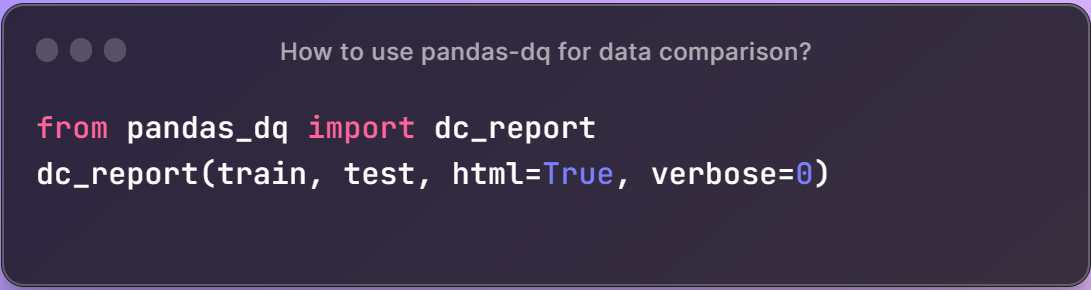
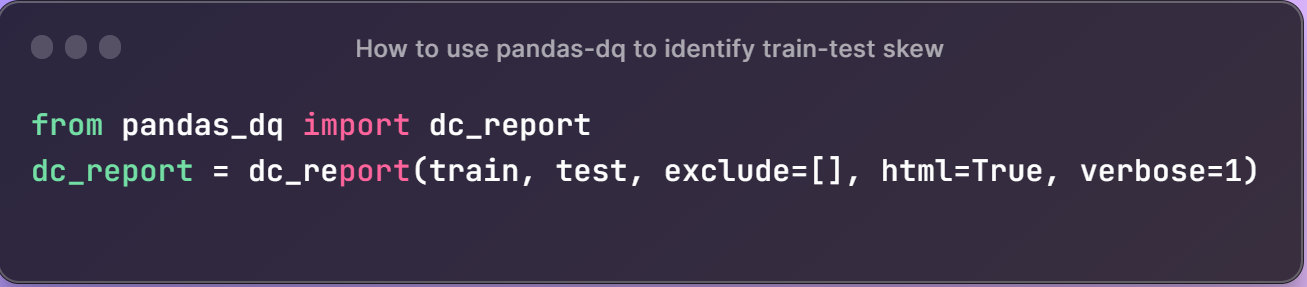
Adding data comparison tool

diff --git a/pandas_dq.py b/pandas_dq.py
@@ -43,6 +43,10 @@ import pandas as pd
 import numpy as np
 import copy
 import os
+pd.set_option('display.max_rows', 500)
+pd.set_option('display.max_columns', 500)
+pd.set_option('display.max_colwidth', 1000)
+pd.set_option('colheader_justify', 'center')
 # Define a function to print a data quality report and suggestions to clean data
 def dq_report(data, target=None, html=False, csv_engine="pandas", verbose=0):
     """
@@ -757,9 +761,6 @@ class Fix_DQ(BaseEstimator, TransformerMixin):
     
     # Define the fit method that calculates the upper bound for each numerical column
     def fit(self, X, y=None):
-        NEW_COLUMN_WIDTH = 500
-        # change the maximum column width in pandas
-        pd.set_option('display.max_colwidth', NEW_COLUMN_WIDTH)
         # Check if X is a pandas DataFrame
         
         if not isinstance(X, pd.DataFrame):
@@ -977,10 +978,6 @@ class DataSchemaChecker(BaseEstimator, TransformerMixin):
         Returns:
             None
         """
-        NEW_COLUMN_WIDTH = 500
-        # change the maximum column width in pandas
-        pd.set_option('display.max_colwidth', NEW_COLUMN_WIDTH)
-
         # Check if the number of columns in the dataframe matches the number of columns in the schema
         if len(df.columns) != len(self.schema):
             raise ValueError("The number of columns in the dataframe does not match the number of columns in the schema")
@@ -1069,10 +1066,12 @@ class DataSchemaChecker(BaseEstimator, TransformerMixin):
 ###################################################################################
 from scipy.stats import ks_2samp
 
-def dc_report(train, test, html=False, verbose=0):
+def dc_report(train, test, exclude=[], html=False, verbose=0):
     """
     This is a data comparison tool that accepts two pandas dataframes as input and 
-    returns a report highlighting any differences between them.
+    returns a report highlighting any differences between them. You can exclude
+    certain columns from this comparison (such as target column) by using
+    the "exclude" argument.
     
     Parameters
     ----------
@@ -1080,6 +1079,12 @@ def dc_report(train, test, html=False, verbose=0):
         The training dataframe to be compared.
     test : pd.DataFrame
         The testing dataframe to be compared.
+    html : False
+        You can set it to True to receive an HTML report as well as a file saved in your
+        working directory.
+    exclude : []
+        You can exclude an columns from comparison such as target column which is in train
+        but not in test so that the comparison can be 1:1 between the dataframes.
     verbose : 0 or 1
         If 1, Provides a longer report detailing all the columns mentioned in the report output below.
         If 0, Provides only a shorter report with Column Name, DQ Issue Train, DQ Issue Test and Distribution Difference.
@@ -1100,19 +1105,28 @@ def dc_report(train, test, html=False, verbose=0):
     Raises
     ------
     ValueError
-        If the input are not pandas dataframes or if the two dataframes do not have the same columns.
+        If the input are not pandas dataframes or if the two dataframes do not have the same columns
+        except for the exclude list of columns.
     """
-    NEW_COLUMN_WIDTH = 500
-    # change the maximum column width in pandas
-    pd.set_option('display.max_colwidth', NEW_COLUMN_WIDTH)
+    train = copy.deepcopy(train)
+    test = copy.deepcopy(test)
 
     # Check if the input are pandas dataframes
     if not isinstance(train, pd.DataFrame) or not isinstance(test, pd.DataFrame):
         print("The input must be pandas dataframes. Stopping!")
         return pd.DataFrame()
+
+    ### drop the columns from each 
+    if len(exclude) > 0:
+        for each in exclude:
+            if each in train.columns:
+                train = train.drop(each, axis=1)
+            if each in test.columns:
+                test = test.drop(each, axis=1)
+
     # Check if the two dataframes have the same columns
     if not train.columns.equals(test.columns):
-        print("The two dataframes dont have the same columns. Cannot be compared!")
+        print("The two dataframes dont have the same columns. Use exclude argument to exclude columns from comparison.")
         return pd.DataFrame()
     
     # Use your function dqr = dq_report(df) to generate a data quality report for each dataframe

diff --git a/README.md b/README.md
@@ -1,9 +1,12 @@
 # pandas_dq
-Analyze and clean your data in a single line of code with a Scikit-Learn compatible Transformer.
+`pandas-dq` is the ultimate data quality toolkit for pandas dataframes.
+
+![pandas_dq](./images/pandas_dq_logo.png)
 
 # Table of Contents
 <ul>
 <li><a href="#introduction">What is pandas_dq</a></li>
+<li><a href="#Components">What are its main components</a></li>
 <li><a href="#uses">How to use pandas_dq</a></li>
 <li><a href="#install">How to install pandas_dq</a></li>
 <li><a href="#usage">Usage</a></li>
@@ -15,11 +18,12 @@ Analyze and clean your data in a single line of code with a Scikit-Learn compati
 <p>
 
 ## Introduction
-`pandas_dq` is a new python library for data quality analysis and improvement. It is fast, efficient and scalable. 
+`pandas_dq` is a new python library for data quality analysis and improvement. It is fast, efficient and scalable. `pandas-dq` is:
+- A smart and simple way to clean and improve your pandas dataframes.
+- A powerful way to boost your data analysis with high-quality pandas dataframes.
+- A powerful and flexible library for data quality management in pandas.
 
-<b>Alert!</b>: If you are using `pandas version 2.0` ("the new pandas"), beware that weird errors are popping up in all kinds of libraries that use pandas underneath. Our `pandas_dq` library is no exception. So if you plan to use `pandas_dq` with `pandas version 2.0`, beware that you may see weird errors and we can't and won't fix them!
-
-### What is pandas_dq?
+### Data quality made easy with pandas and scikit-learn transformers
 The new `pandas_dq` library in Python is a great addition to the `pandas` ecosystem. It provides a set of tools for data quality assessment, which can be used to identify and address potential problems with data sets. This can help to improve the quality of data analysis and ensure that results are reliable.
 
 The `pandas_dq` library is still under development, but it already includes a number of useful features. These include:
@@ -32,20 +36,21 @@ The `pandas_dq` library is still under development, but it already includes a nu
 The `pandas_dq` library is a valuable tool for anyone who works with data. It can help you to improve the quality of your data analysis and ensure that your results are reliable.
 
 Here are some of the benefits of using the pandas_dq library:
-- It can help you to identify and address potential problems with data sets.
-- It can improve the quality of data analysis.
-- It can ensure that your results are reliable.
-- It is easy to use and can be integrated with other `pandas` tools.
+- It can help you to identify and address potential problems with data sets before modeling.
+- It can fix data quality issues and improve the quality of your data.
+- It is easy to use and can be integrated with other `scikit-learn` pipelines.
+
+<b>Alert!</b>: If you are using `pandas version 2.0` ("the new pandas"), beware that weird errors are popping up in all kinds of libraries that use pandas underneath. Our `pandas_dq` library is no exception. So if you plan to use `pandas_dq` with `pandas version 2.0`, beware that you may see weird errors and we can't and won't fix them!
+
+## Components
 
 `pandas_dq` has the following main modules:
 <li><b>dq_report</b>: The data quality report displays a data quality report either inline or in HTML after it analyzes your dataset for various issues, such as missing values, outliers, duplicates, correlations, etc. It also checks the relationship between the features and the target variable (if provided) to detect data leakage.</li>
-<li><b>dc_report</b>: The data comparison report displays a comparison report between train and test datasets either inline or in HTML after it analyzes both datasets for various issues, such as missing values, unique values, min and max, etc. It also checks provides a Statistical Test (KS test) to compare the distribitional differences of numeric features to detect data drift.</li>
+<li><b>dc_report</b>: The data comparison report displays a comparison report between train and test datasets either inline or in HTML after it analyzes both datasets for various issues, such as missing values, unique values, min and max, etc. It also checks provides a Statistical Test (KS test) to compare the distribitional differences of numeric features to detect data drift. You can exclude target column(s) from comparison between train and test.</li>
 <li><b>Fix_DQ</b>: This class is a scikit-learn compatible transformer that can detect and fix data quality issues in one line of code. It can remove ID columns, zero-variance columns, rare categories, infinite values, mixed data types, outliers, high cardinality features, highly correlated features, duplicate rows and columns, skewed distributions and imbalanced classes.</li>
 <li><b>DataSchemaChecker</b>: This class can check your dataset data types against a specific schema and report any mismatches or errors.</li>
 
 `pandas_dq` is designed to provide you the cleanest features with the fewest steps.
-
-![pandas_dq](./images/pandas_dq_logo.png)
 
 ## Uses
 `pandas_dq` has multiple important modules: `dq_report`, `Fix_DQ` and now `DataSchemaChecker`. <br>
@@ -81,7 +86,7 @@ Notice that for large datasets, this report generation may take time, hence we r
 <li>The function uses our function `dqr = dq_report(df)` to generate a data quality report for each dataframe and compares the results using the column names from the report.</li>
 <li>It also computes the Kolmogorov-Smirnov test statistic to measure the distribution difference for numeric columns with low cardinality.</li>
 <li>It also compares the Missing Values% and Unique Values% between the two dataframes and adds a comment in the "Distribution Difference" column if the two percentages are different.</li>
-<li>It returns a dataframe with the following column names: Column Name, Data Type Train, Data Type Test, Missing Values% Train, Missing Values% Test, Unique Values% Train, Unique Values% Test, Minimum Value Train, Minimum Value Test, Maximum Value Train, Maximum Value Test, DQ Issue Train, DQ Issue Test, Distribution Difference.</li>
+<li>You can exclude target column(s) from comparison between train and test.</li>
 - Notice that for large datasets, this report generation may take time. So make sure you take a sample of your train and test data before calling this report!
 </ol>
 
@@ -159,11 +164,12 @@ It displays a data quality report like this inline or in HTML format (and it sav
 
 ![dq_report](./images/dq_report_screenshot.png)
 
-To get a quick comparison of two sets of similar data,  simply call dc_report: a data comparison tool that accepts two pandas dataframes as input and returns a report highlighting any differences between them. It can also provide a report in HTML format as below.
+### To get a quick comparison of two sets of data frames,  simply call dc_report
+`dc_report` is data comparison tool that accepts two pandas dataframes as input and returns a report highlighting any differences between them. It can also provide a report in HTML format as below.
 
 ```
 from pandas_dq import dc_report
-dc_report = dc_report(train, test, html=True, verbose=1)
+dc_report = dc_report(train, test, exclude=[], html=True, verbose=1)
 ```
 
 ![dc_report_screenshot](./images/dc_report_screenshot.png)
@@ -213,7 +219,9 @@ pandas_dq has a very simple API with one major goal: find data quality issues in
 **Arguments**
 
 ### `dq_report` has the following arguments:<br>
-<b>Caution:</b> For very large data sets, we randomly sample 100K rows from your CSV file to speed up reporting. If you want a larger sample, simply read in your file offline into a pandas dataframe and send it in as input, and we will load it as it is. This is one way to go around our speed limitations.
+<b>Caution:</b> For very large data sets, we randomly sample 100K rows from your CSV file to speed up reporting. If you want a larger sample, simply read in your file offline into a pandas dataframe and send it in as input, and we will load it as it is. This is one way to go around our speed limitations:
+
+#### Inputs:
 - `data`: You can provide any kind of file format (string) or even a pandas DataFrame (df). It reads parquet, csv, feather, arrow, all kinds of file formats straight from disk. You just have to tell it the path to the file and the name of the file. 
 - `target`: default: `None`. Otherwise, it should be a string name representing the name of a column in df. You can leave it as `None` if you don't want any target related issues.
 - `html`: default is `False`. If you want to display your report in HTML in a browser, set it to `True`. Otherwise, it defaults to inline in a notebook or prints on the terminal. It also saves the HTML file in your working directory in your machine.
@@ -221,25 +229,39 @@ pandas_dq has a very simple API with one major goal: find data quality issues in
 - `verbose`: This has 2 possible states:
   - `0` summary report. displays only the summary level data quality issues in the dataset. Great for managers.
   - `1` detailed report. displays all the gory details behind each DQ issue in your dataset and what to do about them. Great for engineers.
+#### Outputs:
+- `dataframe`: If verbose=1, it returns a dataframe with detailed data quality issues with your data. If verbose=0, it returns with a dataframe containing only the highlights of the data quality issues.
 
-`dq_report` returns a dataframe containing all the data quality issues in your data.
+`dc_report` returns a dataframe highlighting differences between two dataframes, typically train and test. It has the following inputs and outputs:
+#### Inputs:
+- `train`: a dataframe
+- `test`: a dataframe 
+- `exclude`: an empty list or a list of columns that you want to exclude from comparison in both dataframes
+- `html`: return a HTML file containing the differences between the two dataframes
+- `verbose`: 0 will return just the highlights of differences. 1 will return a detailed description of differences between the two dataframes.
 
-### `Fix_DQ` has the following arguments:<br>
-<b>Caution:</b> X_train and y_train in Fix_DQ must be pandas Dataframes or pandas Series. I have not tested it on numpy arrays. You can try your luck.
+#### Outputs:
+- `dataframe`: If verbose=1, it returns a dataframe with the following column names: Column Name, Data Type Train, Data Type Test, Missing Values% Train, Missing Values% Test, Unique Values% Train, Unique Values% Test, Minimum Value Train, Minimum Value Test, Maximum Value Train, Maximum Value Test, DQ Issue Train, DQ Issue Test, Distribution Difference. If verbose=0, it will return only the following columns: Column Name, DQ Issue Train, DQ Issue Test, Distribution Difference.
 
+### `Fix_DQ` is a scikit-learn transformer. It finds and fixes data quality issues in your data<br>
+<b>Caution:</b> X_train and X_test in Fix_DQ must be pandas Dataframes or pandas Series. I have not tested it on numpy arrays. You can try your luck.
+
+#### Inputs:
+- `X_train` : a pandas dataframe
+- `X_test` : a pandas dataframe
 - `quantile`: float (0.75): Define a threshold for IQR for outlier detection. Could be any float between 0 and 1. If quantile is set to `None`, then no outlier detection will take place.
 - `cat_fill_value`: string ("missing") or a dictionary: Define a fill value for missing categories in your object or categorical variables. This is a global default for your entire dataset. You can also give a dictionary where you specify different fill values for different columns.
 - `num_fill_value`: integer (99) or float value (999.0) or a dictionary: Define a fill value for missing numbers in your integer or float variables.  This is a global default for your entire dataset. You can also give a dictionary where you specify different fill values for different columns.
 - `rare_threshold`: float (0.05):  Define a threshold for rare categories. If a certain category in a column is less than say 5% (0.05) of samples, then it will be considered rare. All rare categories in that column will be merged under a new category named "Rare". 
 - `correlation_threshold`: float (0.8): Define a correlation limit. Anything above this limit, if two variables are correlated, one of them will be dropped. The program will tell you which variable is being dropped. You can switch the sequence of variables in your dataset if you want the one or other dropped.<br>
 
-### `DataSchemaChecker` is very similar in that it is also a scikit-learn transformer. It checks you data against a given schema:<br>
-What is a schema?
-  `A schema (dict) is a dictionary that maps column names to data types.`
+### `DataSchemaChecker` is a scikit-learn transformer. It checks you data against a given schema<br>
+#### Inputs:
+- `schema`: dictionary. A schema (dict) is a dictionary that maps column names to data types. This schema will determine the data types of whatever dataframe you want to comply with.
 
 DataSchemaChecker has two methods:
-- `fit` method: Checks if the dataframe matches the schema and displays a table of errors if any.
-- `transform` method: Transforms the dataframe's dtypes to the given schema and displays errors if any.
+- `fit` method: Checks if the given dataframe matches the schema and displays a table of errors if any.
+- `transform` method: Transforms the given dataframe's dtypes to the given schema and displays errors if any.
 
 ## Maintainers
 
